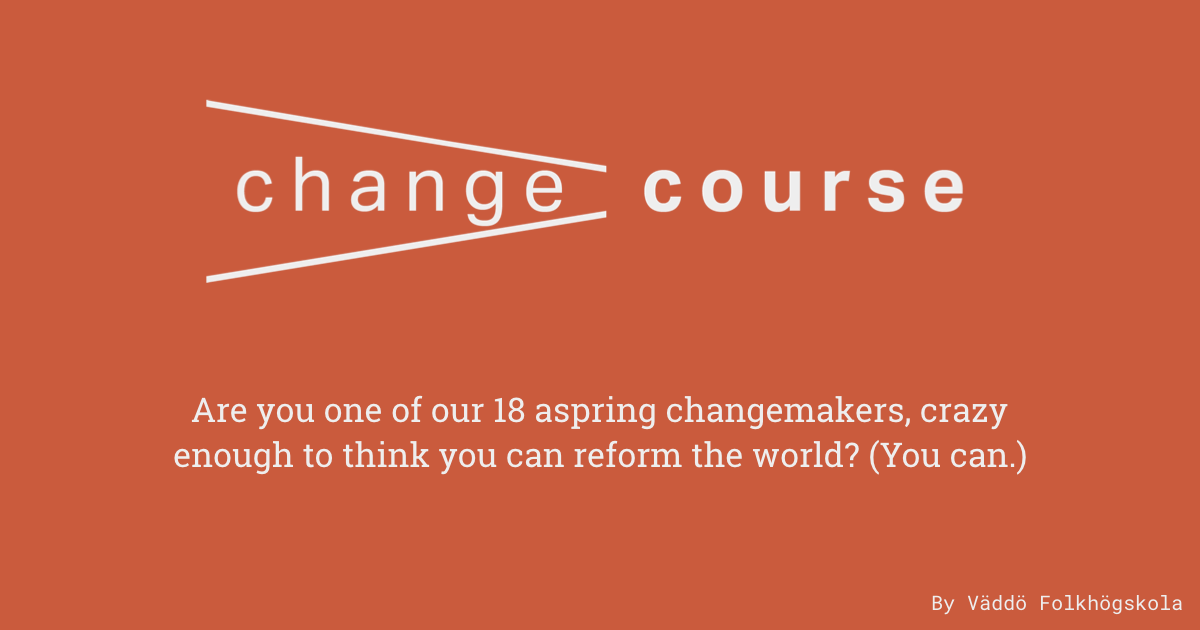
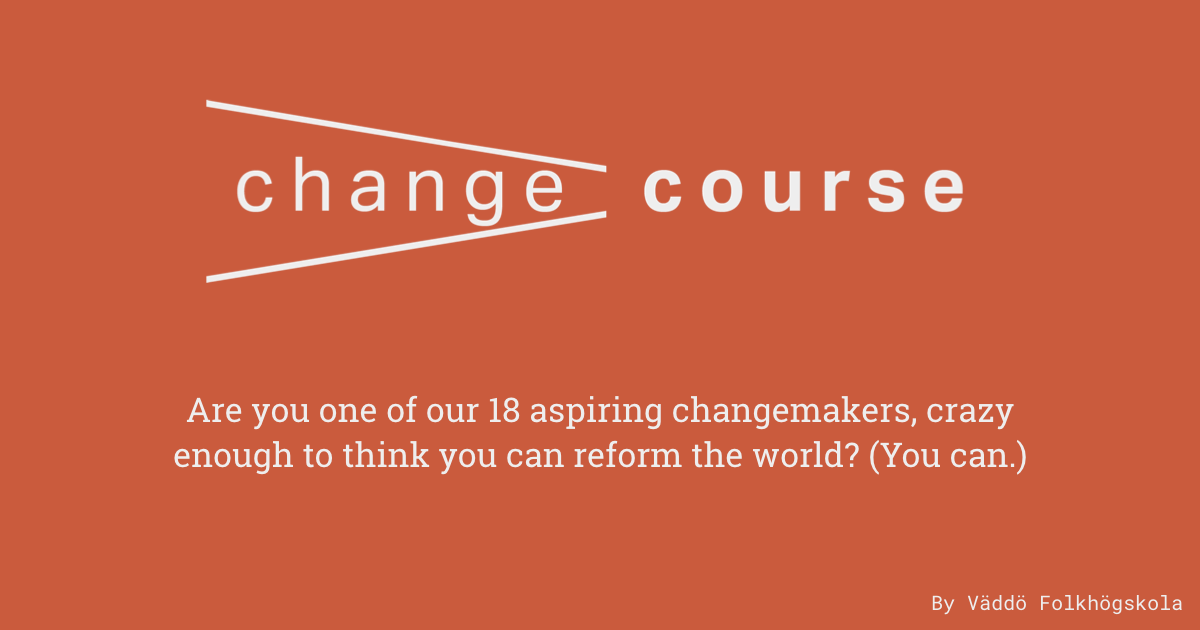
Fixing 4 typos..

Changed region(s): [[0.1542, 0.6333, 0.8633, 0.6937]]

diff --git a/index.html b/index.html
@@ -13,7 +13,7 @@
     <!-- Social media preview -->
     <meta property="og:title" content="change course" />
     <meta property="og:image" content="http://changecourse.se/img/preview.png" />
-    <meta property="og:description" content="Entreprenurship education for changemakers" />
+    <meta property="og:description" content="Entrepreneurship education for changemakers" />
     <meta property="og:url" content="http://changecourse.se">
 
     <!-- Favicon -->
@@ -179,7 +179,7 @@
             of this fact.
             <br><br>
             As a participant in change course you will not only take part in the education,
-            but also have an integral part in it's development. It is important that the
+            but also have an integral part in its development. It is important that the
             course fits you, as it would be a shame to try to change you to fit the course.
         </p>
 
@@ -310,7 +310,7 @@
         <a href="http://www.vaddo.fhsk.se/"><div id="vlogo"></div></a>
         <p>
             <a href="http://www.vaddo.fhsk.se/">Väddö Folkhögskola</a> is located in the heart of beautiful Roslagen, Stockholm
-            county. The school has, since it's foundation 1879, been a place where people
+            county. The school has, since its foundation 1879, been a place where people
             with diverse interests and goals live and study together. The closeness to sea
             and nature is a central element in the identity of the school, as well as the
             spirit of innovation and flexibility.
@@ -344,7 +344,7 @@
     </div>
 
     <div class="block red">
-        <p><em>Are you one of our 18 aspring changemakers, crazy enough to think you can
+        <p><em>Are you one of our 18 aspiring changemakers, crazy enough to think you can
 reform the world? (You can.)</em></p>
     </div>
 
